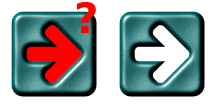
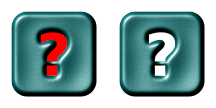
Changing password works

diff --git a/squarely/game_objects.py b/squarely/game_objects.py
@@ -18,7 +18,7 @@ import common
 from text_tools import *
 import hashlib
 import pickle
-from cloud_tools import player_create, player_delete, player_login
+from cloud_tools import player_create, player_delete, player_login, player_password
 
 
 class GameBoard(object):
@@ -437,7 +437,6 @@ class SettingsDialog(object):
         img_background = pyglet.image.load('images/settings-bcg.png')
         self.img_checkbox_unchecked = pyglet.image.load('images/checkbox-unchecked.png')
         self.img_checkbox_checked = pyglet.image.load('images/checkbox-checked.png')
-        img_go = pyglet.image.load('images/btn-go.png')
 
         frames_source = image.load("images/btn-go-free.png")
         sequence = pyglet.image.ImageGrid(frames_source, 1, 2)
@@ -446,6 +445,10 @@ class SettingsDialog(object):
         frames_source = image.load("images/btn-go-clicked.png")
         sequence = pyglet.image.ImageGrid(frames_source, 1, 2)
         self.go_animation1 = (pyglet.image.Animation.from_image_sequence(sequence, 0.5, True))
+
+        frames_source = image.load("images/btn-go-sync.png")
+        sequence = pyglet.image.ImageGrid(frames_source, 1, 2)
+        self.go_animation2 = (pyglet.image.Animation.from_image_sequence(sequence, 0.5, True))
 
         self.btn_x = board.base * 5
         self.y_step = board.base / 2
@@ -562,17 +565,19 @@ class SettingsDialog(object):
     def go_btn_click(self):
         self.password_field.caret.visible = True
         if self.password_go_btn.clicked:
-            print("Saving password")
-            self.hide()
+            self.password_go_btn.image = self.go_animation2
+            pswd = self.password_field.document.text
+            player_password(common.player.name, common.player.password, hashlib.md5(pswd.encode('utf-8')).hexdigest())
         else:
             pswd = self.password_field.document.text
             if len(pswd) >= 6 and not pswd == common.lang["settings_new_password"]:
                 self.password_go_btn.clicked = True
+                self.password_go_btn.image = self.go_animation1
             else:
                 self.password_field.document.text = common.lang["settings_new_password"]
                 self.window.remove_handlers(self.password_field.caret)
                 self.password_field.caret.visible = False
-        self.password_go_btn.image = self.go_animation1 if self.password_go_btn.clicked else self.go_animation0
+                self.password_go_btn.image = self.go_animation0
 
     def show(self):
         self.password_field.document.text = common.lang["settings_new_password"]

diff --git a/php/player.php b/php/player.php
@@ -20,6 +20,7 @@
     $ps4 = $_GET['ps4'];
     $ps5 = $_GET['ps5'];
     $plimit = $_GET['plimit'];
+    $pnewpass = $_GET['pnewpass'];
 
     if ($action != 'display') {
         if ($pname == "" or $ppswd == "") {
@@ -268,6 +269,46 @@
 
 		echo $response;
 	
+	} else if($action == 'password') {
+
+   	    if($agent != $vagent) {
+			die("access_denied");
+   	    }
+
+		// Check if user exists and password ok
+        $sql = "SELECT * FROM players WHERE pname = '$pname' AND ppswd = '$ppswd'";
+   	    $result = mysql_query( $sql, $conn );
+
+   	    if (mysql_num_rows($result) > 0) {
+
+            // player & password ok, set new password
+            $sql = "UPDATE players SET ppswd = '$pnewpass' WHERE pname = '$pname' AND ppswd = '$ppswd'";
+            $res = mysql_query( $sql, $conn );
+
+            if($result) {
+
+                echo "password_changed";
+
+            } else {
+
+                echo "password_unchanged";
+            }
+
+        } else {
+
+            // Check if at least the user exists
+            $sql = "SELECT * FROM players WHERE pname = '$pname'";
+            $result = mysql_query( $sql, $conn );
+
+            if (mysql_num_rows($result) > 0) {
+                // User exist, wrong password
+                die("wrong_pswd");
+            } else {
+                // User not found
+                die("no_such_player");
+            }
+        }
+
 	} else {
 		echo "action_unknown";
 	}

diff --git a/squarely/cloud_tools.py b/squarely/cloud_tools.py
@@ -135,6 +135,30 @@ def top_ten_result(result, password=None):
         common.top10_content = txt
 
 
+def player_password(name, password, new_password):
+    common.player.online = common.SYNCING
+    url = 'http://nwg.pl/puzzle/player.php?action=password&pname=' + name + '&ppswd=' + password + '&pnewpass=' + new_password
+    #print(url)
+    if internet_on():
+        async_request('get', url, headers=common.headers, pwd=new_password, callback=lambda r, p: password_result(r, p))
+    else:
+        common.player.online = common.OFFLINE
+
+
+def password_result(result, new_password):
+    txt = result.content.decode("utf-8")
+    print(txt)
+
+    if txt.startswith('password_changed'):
+        common.player.password = new_password
+
+        with open(common.player_filename, 'wb') as output:
+            pickle.dump(common.player, output, pickle.HIGHEST_PROTOCOL)
+
+        if common.settings_dialog.is_open:
+            common.settings_dialog.hide()
+
+
 def player_login(name, password):
     common.player.online = common.SYNCING
     url = 'http://nwg.pl/puzzle/player.php?action=login&pname=' + name + '&ppswd=' + password
